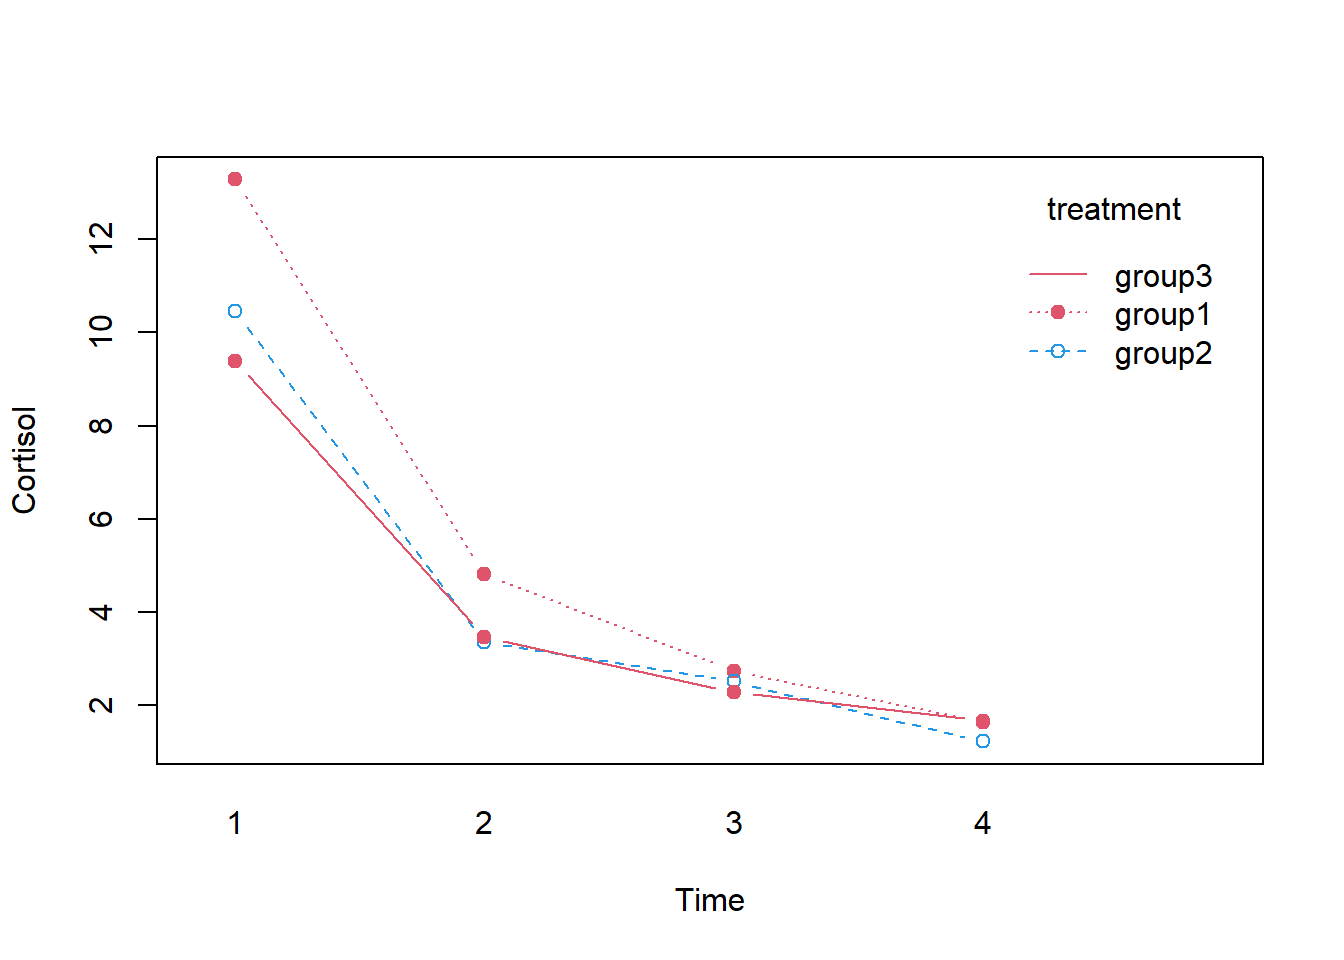
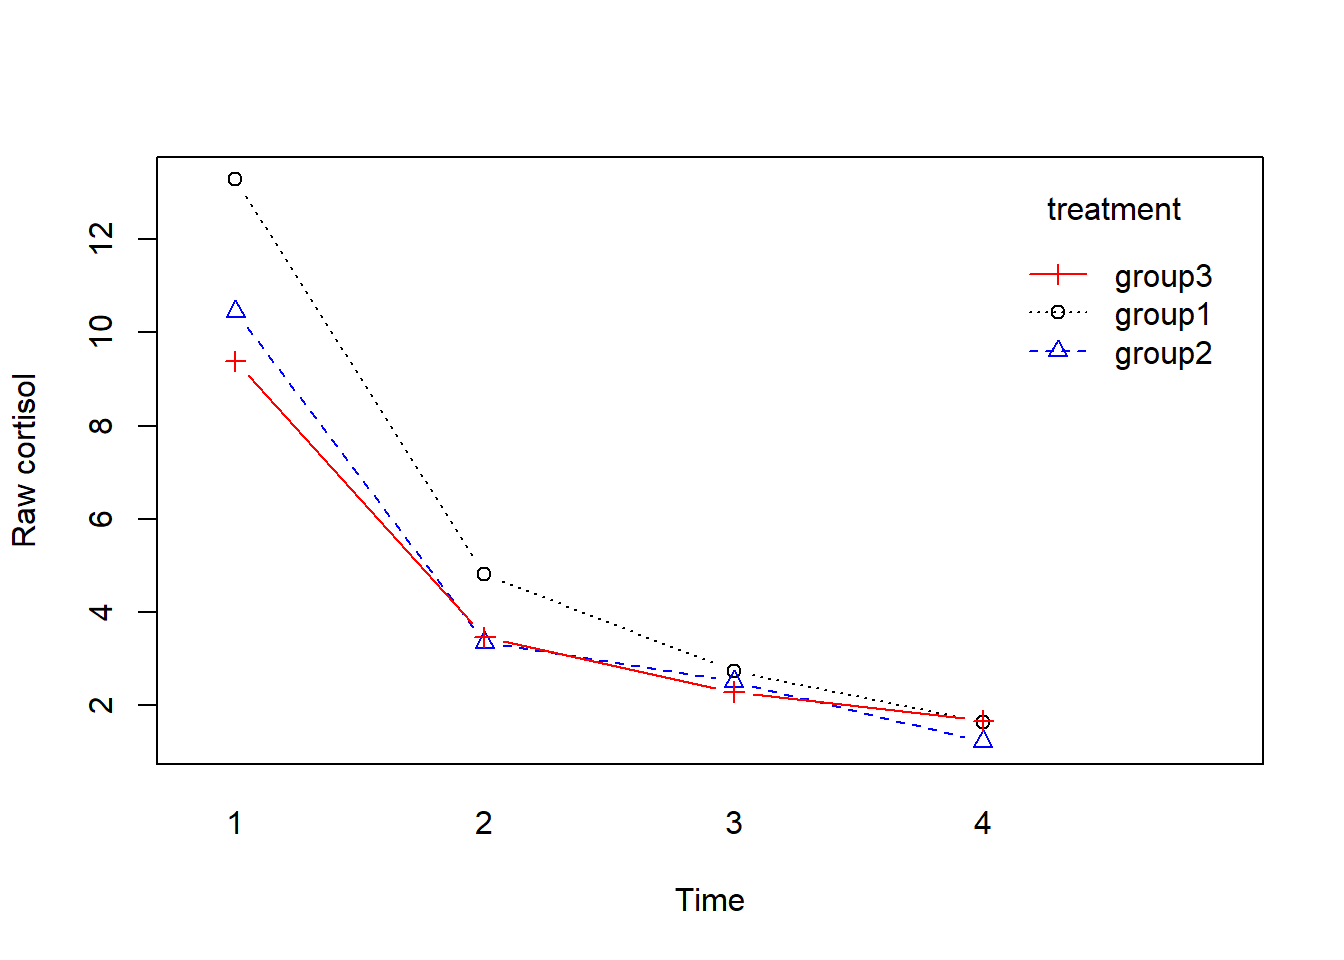
8/19/2022

diff --git a/docs/2022_Mar3_kate.html b/docs/2022_Mar3_kate.html
@@ -387,7 +387,7 @@ aria-hidden="true"></span> </a>
 <div class="tab-content">
 <div id="summary" class="tab-pane fade in active">
 <p>
-<strong>Last updated:</strong> 2022-08-17
+<strong>Last updated:</strong> 2022-08-19
 </p>
 <p>
 <strong>Checks:</strong> <span
@@ -521,15 +521,15 @@ project makes it easier to run your code on other machines.</p>
 <div class="panel panel-default">
 <div class="panel-heading">
 <p class="panel-title">
-<a data-toggle="collapse" data-parent="#workflowr-checks" href="#strongRepositoryversionstrongahrefhttpsgithubcomhan16Collaborationstree908caf72a596c3dbe80f3c4b0c84a59fb4772126targetblank908caf7a">
+<a data-toggle="collapse" data-parent="#workflowr-checks" href="#strongRepositoryversionstrongahrefhttpsgithubcomhan16Collaborationstree2e514bb91b448942f3e337526ff1b6a5c003f2b9targetblank2e514bba">
 <span class="glyphicon glyphicon-ok text-success"
 aria-hidden="true"></span> <strong>Repository version:</strong>
-<a href="https://github.com/han16/Collaborations/tree/908caf72a596c3dbe80f3c4b0c84a59fb4772126" target="_blank">908caf7</a>
+<a href="https://github.com/han16/Collaborations/tree/2e514bb91b448942f3e337526ff1b6a5c003f2b9" target="_blank">2e514bb</a>
 </a>
 </p>
 </div>
 <div
[2 lines of base64/hex data omitted]
 class="panel-collapse collapse">
 <div class="panel-body">
 <p>
@@ -539,7 +539,7 @@ reproducibility.
 </p>
 <p>
 The results in this page were generated with repository version
-<a href="https://github.com/han16/Collaborations/tree/908caf72a596c3dbe80f3c4b0c84a59fb4772126" target="_blank">908caf7</a>.
+<a href="https://github.com/han16/Collaborations/tree/2e514bb91b448942f3e337526ff1b6a5c003f2b9" target="_blank">2e514bb</a>.
 See the <em>Past versions</em> tab to see a history of the changes made
 to the R Markdown and HTML files.
 </p>
@@ -603,6 +603,40 @@ Message
 </tr>
 </thead>
 <tbody>
+<tr>
+<td>
+Rmd
+</td>
+<td>
+<a href="https://github.com/han16/Collaborations/blob/2e514bb91b448942f3e337526ff1b6a5c003f2b9/analysis/2022_Mar3_kate.Rmd" target="_blank">2e514bb</a>
+</td>
+<td>
+Han
+</td>
+<td>
+2022-08-17
+</td>
+<td>
+8/17/2022
+</td>
+</tr>
+<tr>
+<td>
+html
+</td>
+<td>
+<a href="https://rawcdn.githack.com/han16/Collaborations/2e514bb91b448942f3e337526ff1b6a5c003f2b9/docs/2022_Mar3_kate.html" target="_blank">2e514bb</a>
+</td>
+<td>
+Han
+</td>
+<td>
+2022-08-17
+</td>
+<td>
+8/17/2022
+</td>
+</tr>
 <tr>
 <td>
 Rmd
@@ -3945,15 +3979,25 @@ treatment          2   0.76101  0.4679
 time               1 107.96648  &lt;.0001
 treatment:time     2   2.41870  0.0903</code></pre>
 <ul>
-<li>use normalized cortisol values and no overall group by time
-interaction due to p value of 0.0903</li>
+<li>no overall group by time interaction due to p value of 0.0903</li>
 <li>use cortisol raw values</li>
+</ul>
+<p><img src="figure/2022_Mar3_kate.Rmd/unnamed-chunk-38-1.png" width="672" style="display: block; margin: auto;" /></p>
+<pre><code>Denom. DF: 402 
+               numDF  F-value p-value
+(Intercept)        1 0.000000  1.0000
+treatment          2 2.165388  0.1160
+time               1 0.000000  1.0000
+treatment:time     2 1.365189  0.2565</code></pre>
+<ul>
+<li>no overall group by time interaction due to p value of 0.0903</li>
+<li>use cortisol normalized values</li>
 </ul>
 </div>
 <div id="test-cortisol-group-difference-at-every-time-point"
 class="section level3">
 <h3>test cortisol group difference at every time point</h3>
-<pre><code>[1] 0.19138209 0.07793339 0.49658197 0.54966145</code></pre>
+<pre><code>[1] 0.17202065 0.36508932 0.11990984 0.02506438</code></pre>
 <ul>
 <li>use cortisol raw values</li>
 <li>no statistical difference at every time point from above p
